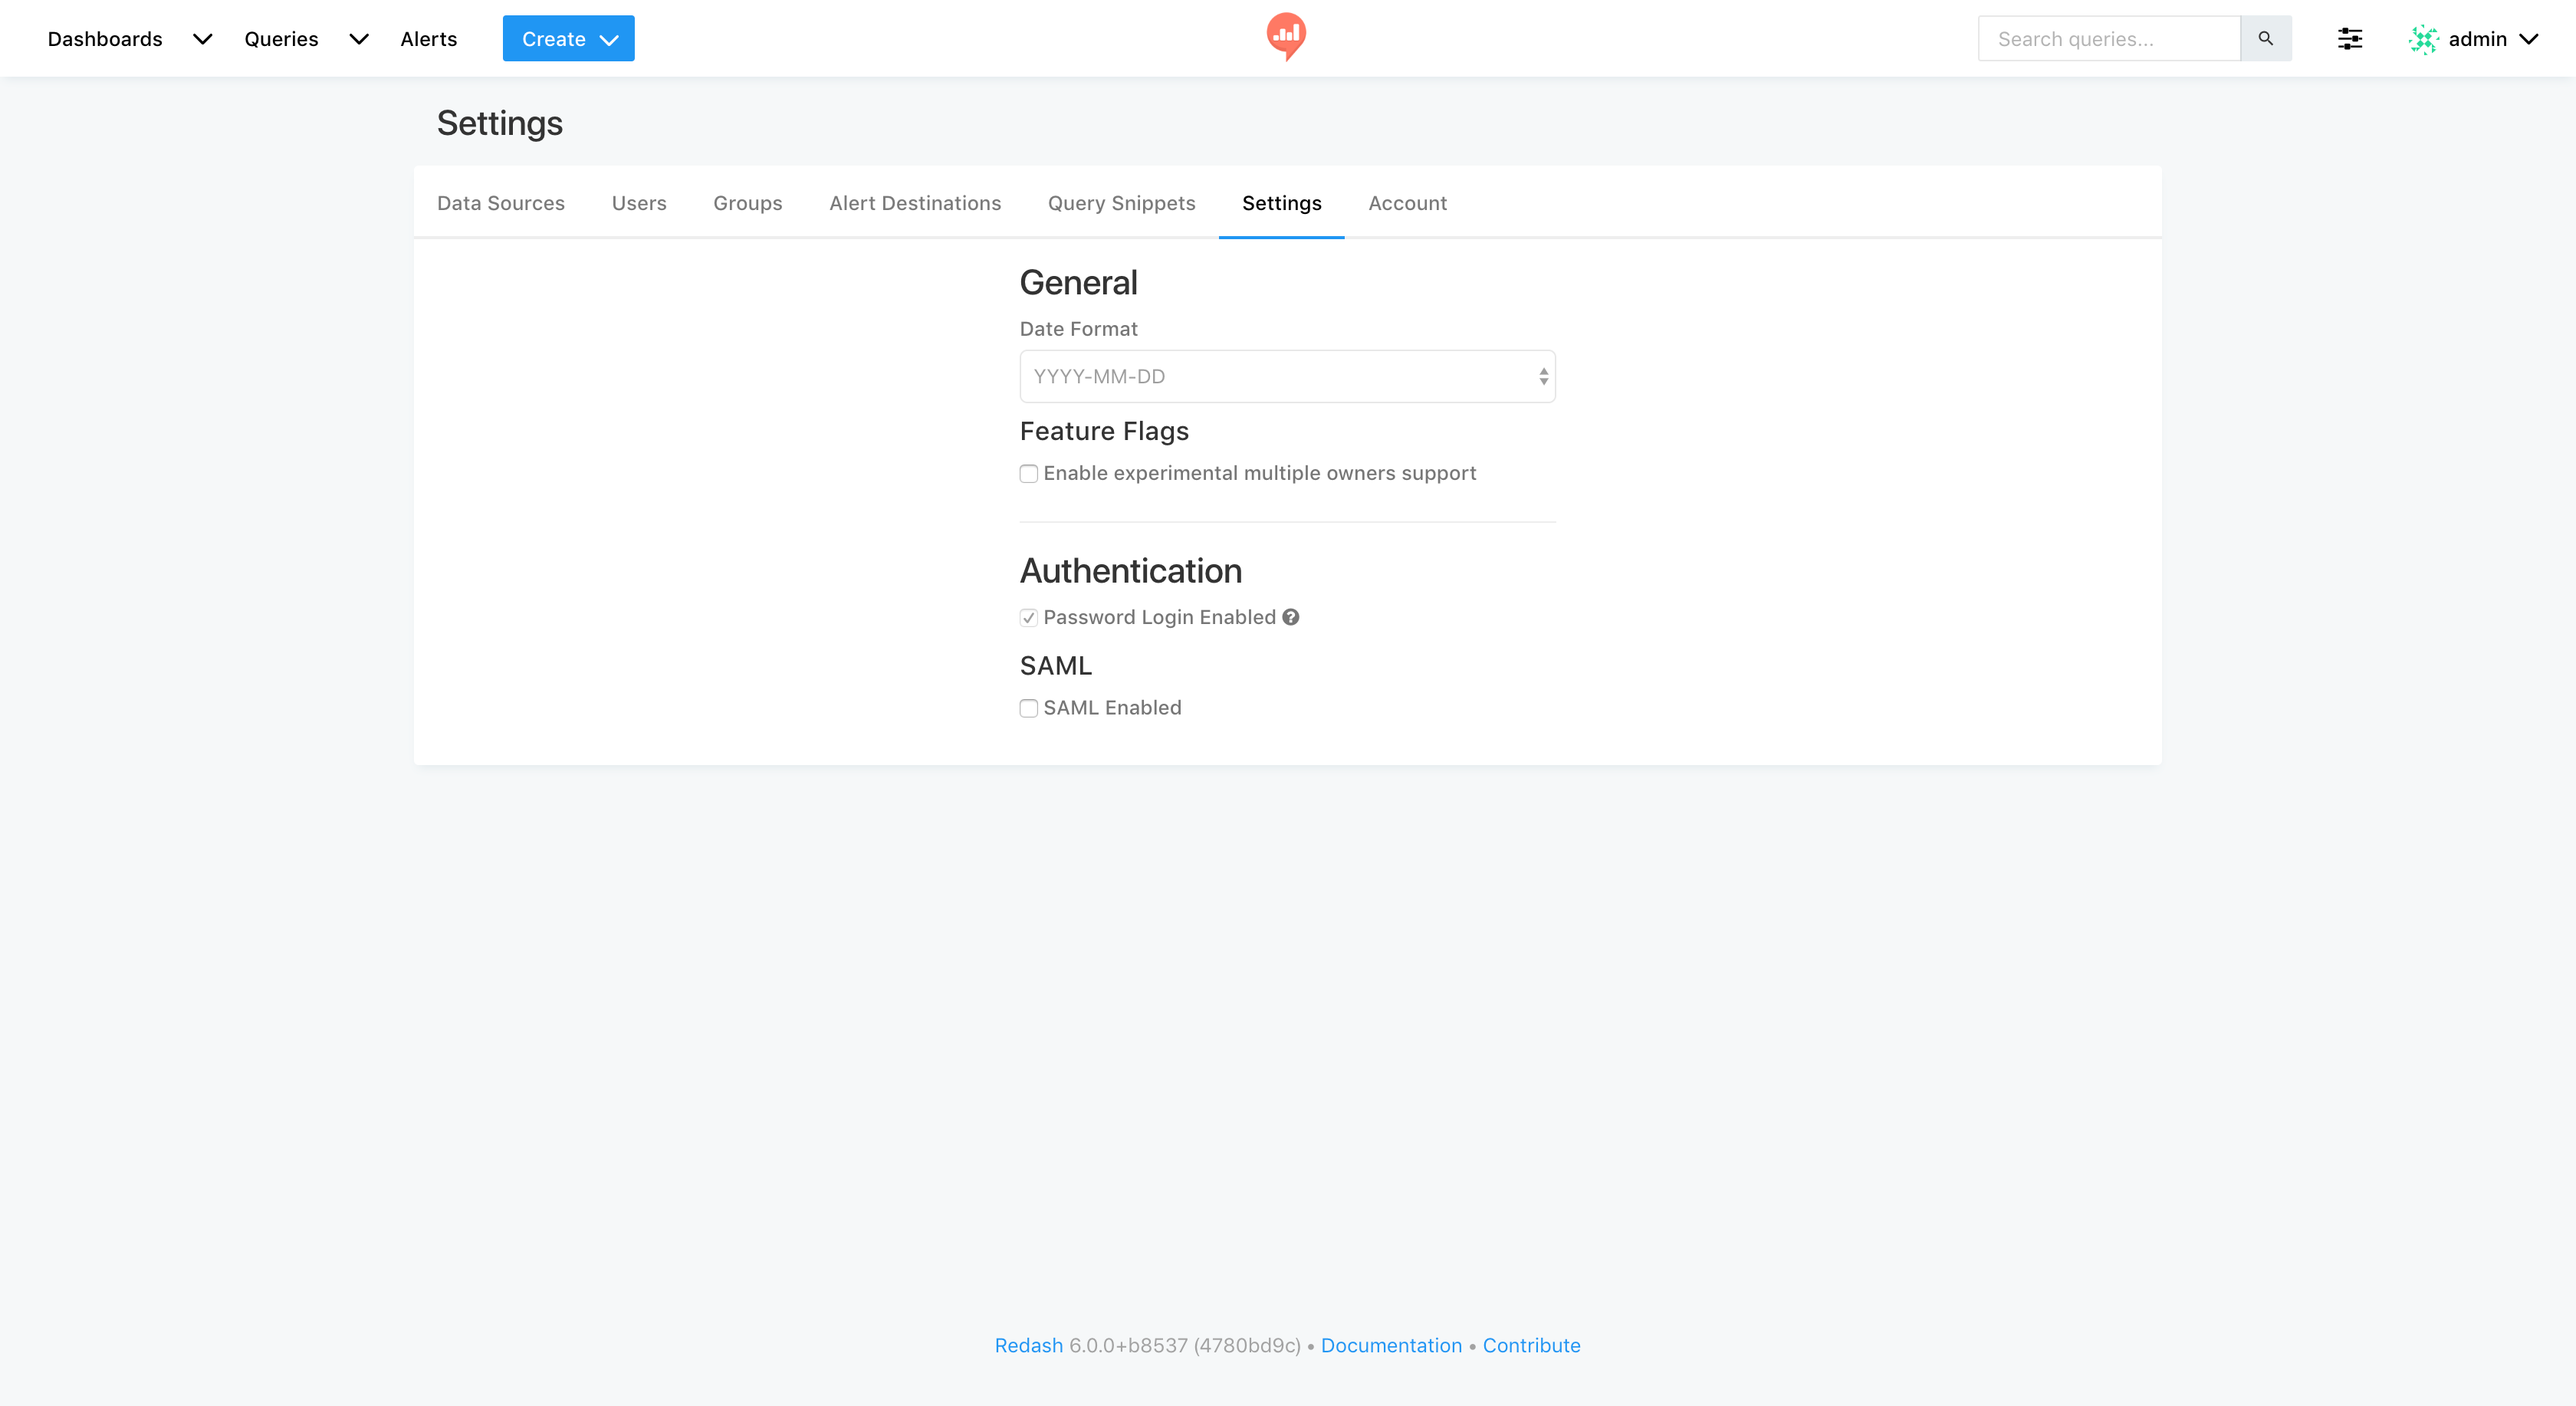
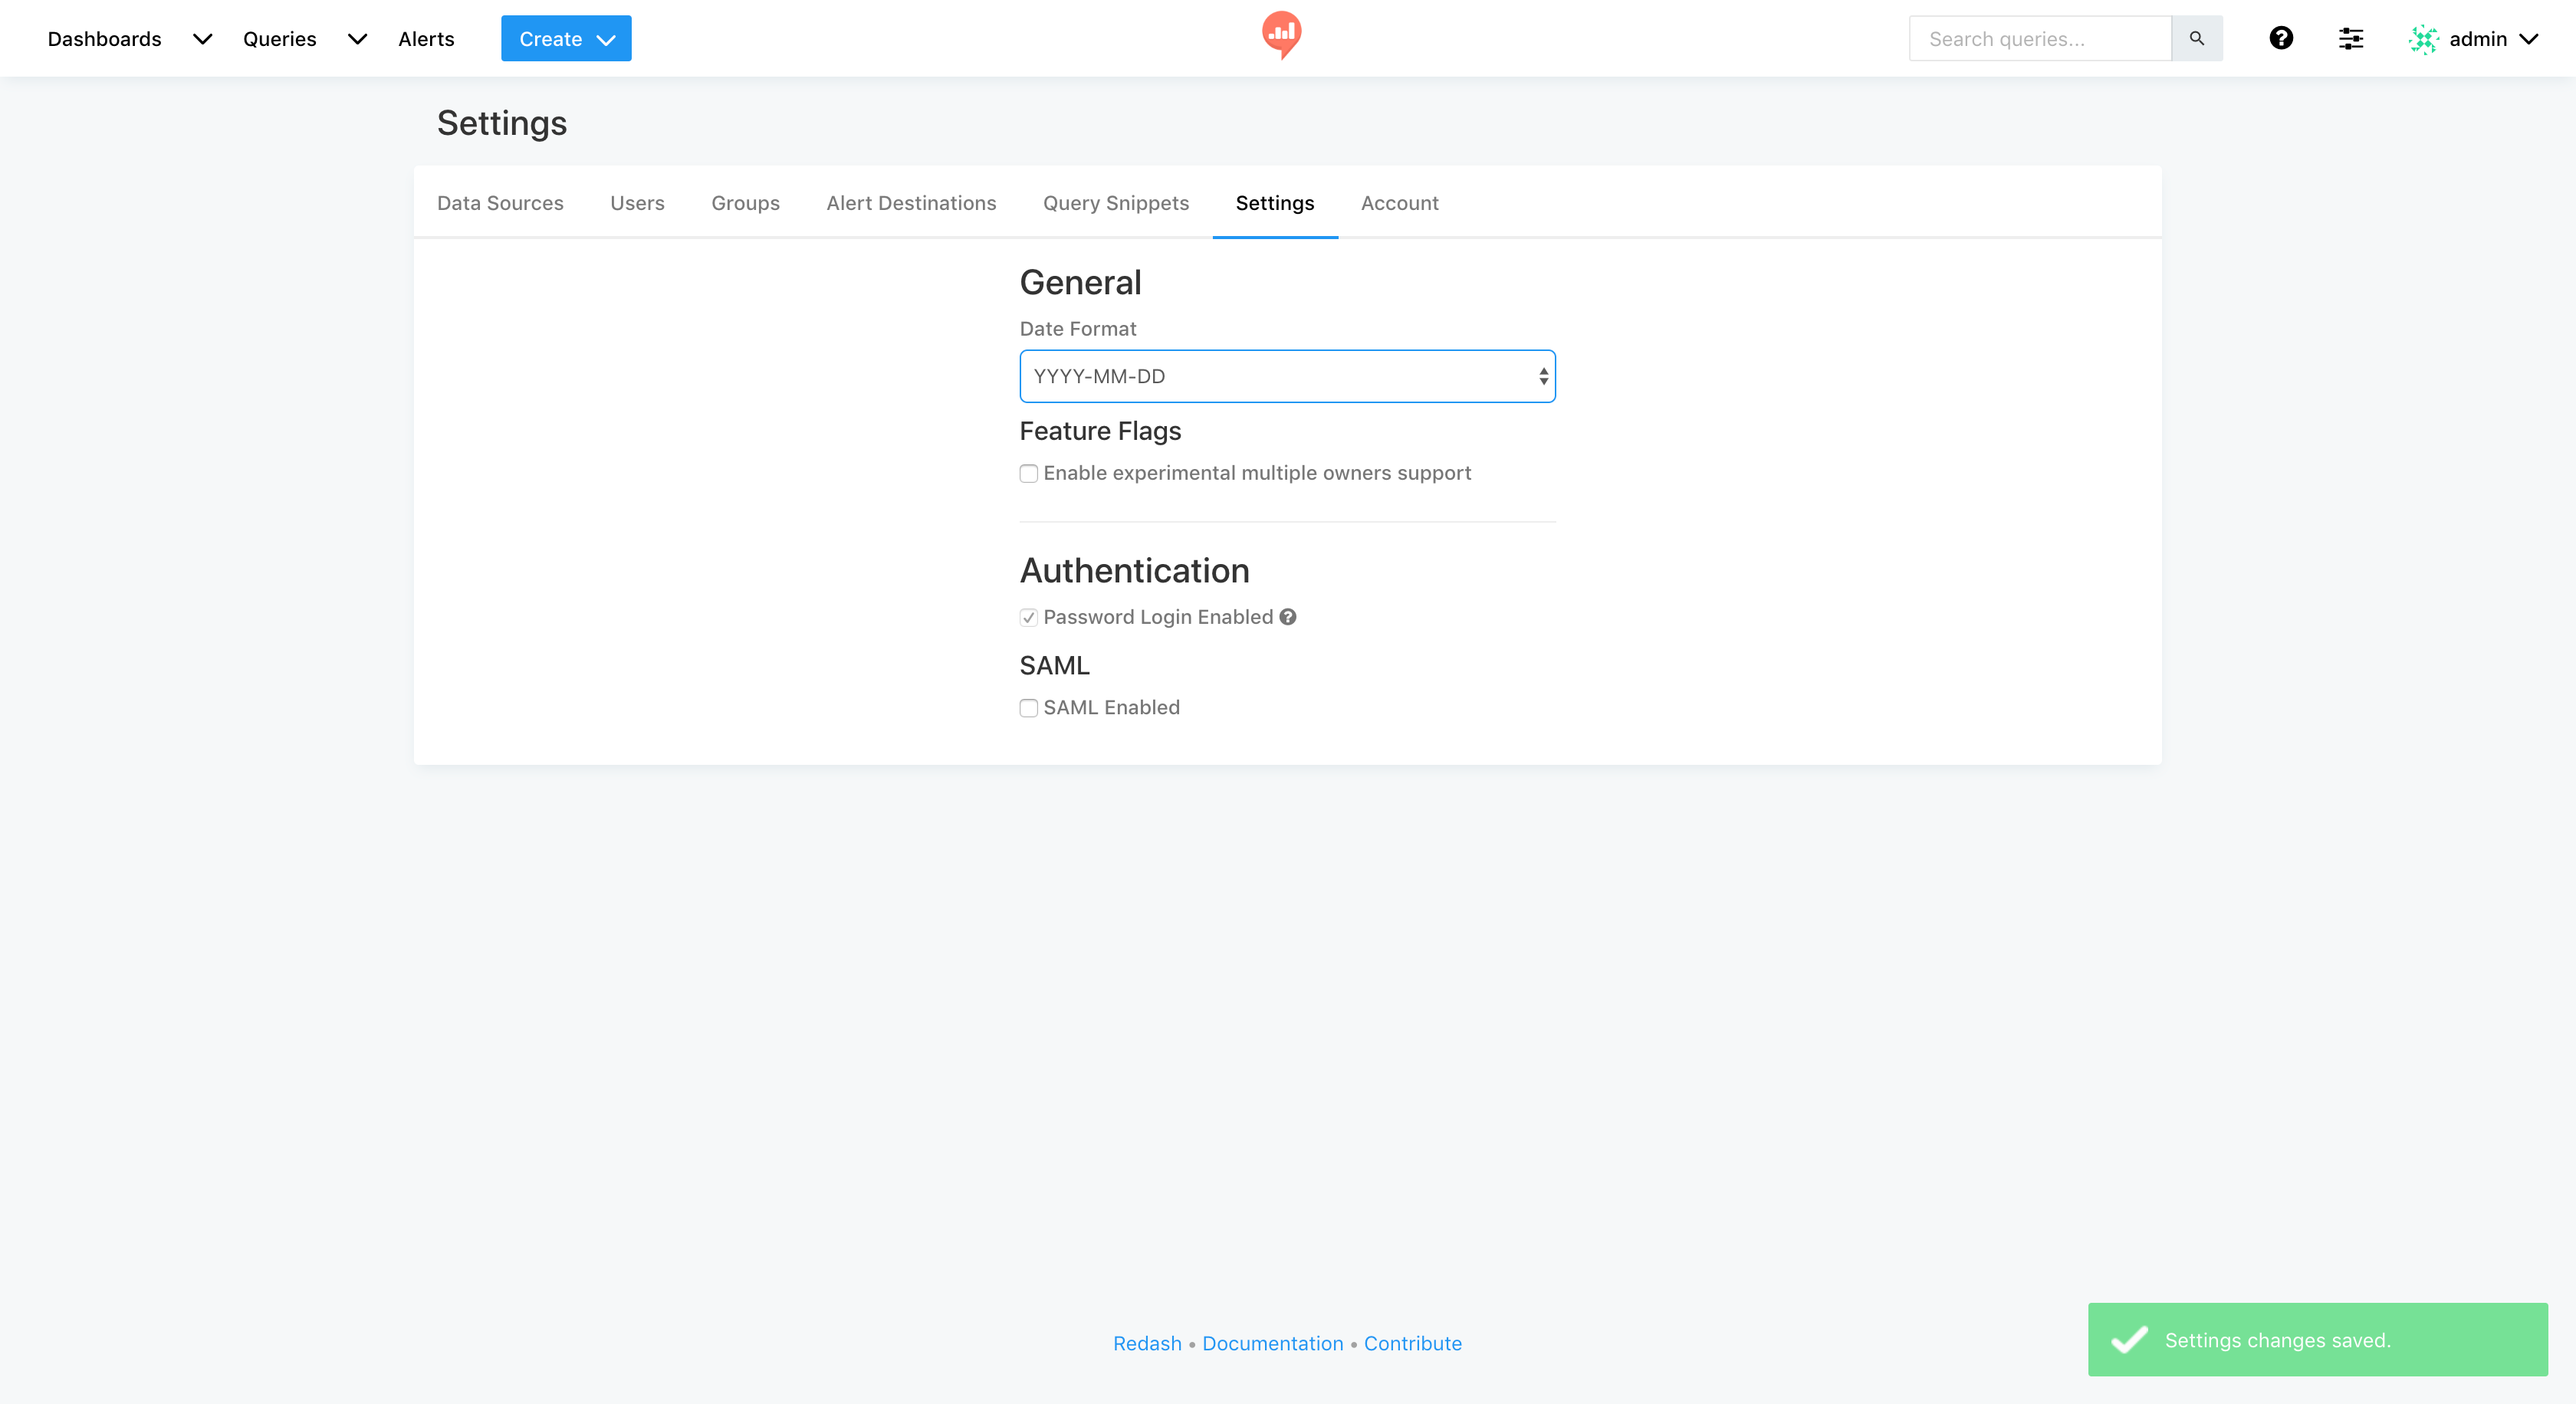
Updated data sources and settings

diff --git a/README.md b/README.md
@@ -65,11 +65,11 @@ $ docker-compose up -d
 
 次に Redash から MySQL に接続できるように「データソース」を設定します．
 
-ログイン後の画面にある「1. Connect a Data Source」のリンクをクリックし，「New Data Source」ボタンをクリックします．
-
-次に「MySQL」をクリックします．「MySQL (Amazon RDS)」ではなく「MySQL」です．
+ログイン後の画面にある「1. Connect a Data Source」のリンクをクリックします．
 
 ![](images/data_sources.png)
+
+次に「MySQL」をクリックします．「MySQL (Amazon RDS)」ではなく「MySQL」です．
 
 以下の通りに設定したら「Save → Test Connection」とクリックし，接続確認をしましょう．Success と画面右下に表示されます．なお，今回はテストデータとして `world` データベースを使います．
 
@@ -86,7 +86,7 @@ $ docker-compose up -d
 
 ## 日付フォーマット設定
 
-画面右上にある Settings アイコンをクリックし，「Settings」タブをクリックします．
+画面右上にある Settings アイコン（？の右側）をクリックし，「Settings」タブをクリックします．
 
 日付フォーマットを以下の通りに変更します．
 
